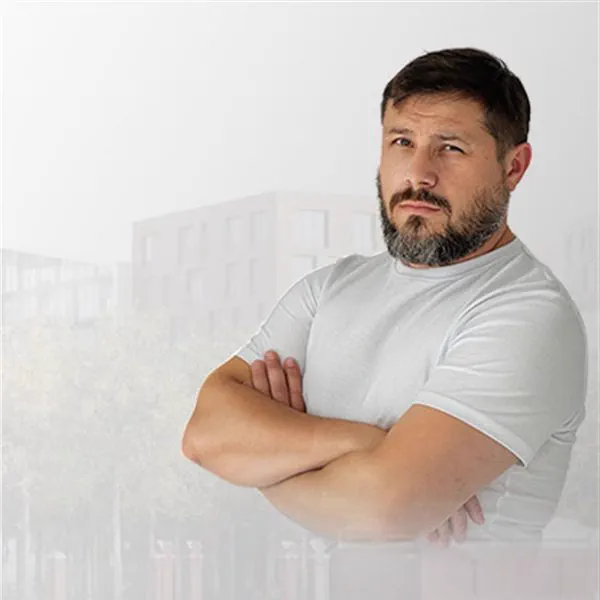
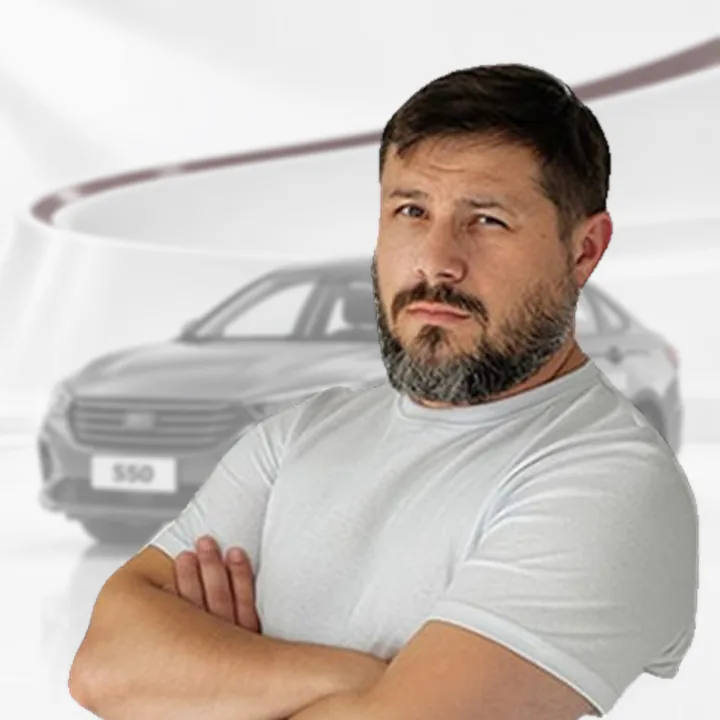
Инструкторы на фоне своих машин, страница «Восстановление навыков вождения»
- фото инструкторов: человек по грудь на фоне своей учебной машины в студии «вираж» под дымкой 45%;
  у троих без фото вместо серого квадрата — их машина; сборка: tools/ins-photo.py
- новая страница /obuchenie/vosstanovlenie-navykov-vozhdeniya: 2 100 ₽ за занятие из 2 учебных часов,
  АКПП и МКПП, только учебная машина, город и автодром; ссылки из «Обучения», «Цен» и меню
- BRANDCORE: условия услуги; карта кокона: узел 6 сделан
- build.pl: art «late» — картинка первого экрана после H1, чтобы длинное слово в заголовке не рвалось
- README: локальный предпросмотр собирать вне OneDrive

diff --git a/src/partials/team-cards.html b/src/partials/team-cards.html
@@ -5,62 +5,62 @@
 </div>
 <div class="scroller" id="teamList">
   <article class="ins" data-f="akpp">
-    <div class="ph"><img src="/img/ins/ushakov.webp" alt="Инструктор Ушаков Евгений Евгеньевич" width="600" height="600" loading="lazy"><span class="pill red">Автомат</span></div>
+    <div class="ph"><img src="/img/ins/ushakov.webp" alt="Инструктор Ушаков Евгений Евгеньевич" width="720" height="720" loading="lazy"><span class="pill red">Автомат</span></div>
     <div class="ins-in"><span class="nm">Ушаков Евгений Евгеньевич</span>
       <dl><div><dt>Машина</dt><dd>Omoda C5</dd></div><div><dt>За рулём</dt><dd>16 лет</dd></div><div><dt>Обучает</dt><dd>6+ лет</dd></div></dl>
       <p class="quote">Спокойный характер, большой опыт работы на экзаменационном автомобиле.</p>
       <button class="btn btn-sm btn-black btn-block" type="button" data-signup="bA" data-topic="К инструктору: Ушаков Е. Е.">Записаться к инструктору</button></div>
   </article>
   <article class="ins" data-f="akpp">
-    <div class="ph"><img src="/img/ins/kovalenok.webp" alt="Инструктор Ковалёнок Александр Владимирович" width="600" height="600" loading="lazy"><span class="pill red">Автомат</span></div>
+    <div class="ph"><img src="/img/ins/kovalenok.webp" alt="Инструктор Ковалёнок Александр Владимирович" width="720" height="720" loading="lazy"><span class="pill red">Автомат</span></div>
     <div class="ins-in"><span class="nm">Ковалёнок Александр Владимирович</span>
       <dl><div><dt>Машина</dt><dd>VW Polo</dd></div><div><dt>За рулём</dt><dd>34 года</dd></div><div><dt>Обучает</dt><dd>15 лет</dd></div></dl>
       <p class="quote">Большой опыт работы, в том числе на экзаменационном автомобиле.</p>
       <button class="btn btn-sm btn-black btn-block" type="button" data-signup="bA" data-topic="К инструктору: Ковалёнок А. В.">Записаться к инструктору</button></div>
   </article>
   <article class="ins" data-f="akpp">
-    <div class="ph"><img src="/img/ins/komissarov.webp" alt="Инструктор Комиссаров Денис Валентинович" width="600" height="600" loading="lazy"><span class="pill red">Автомат</span></div>
+    <div class="ph"><img src="/img/ins/komissarov.webp" alt="Инструктор Комиссаров Денис Валентинович" width="720" height="720" loading="lazy"><span class="pill red">Автомат</span></div>
     <div class="ins-in"><span class="nm">Комиссаров Денис Валентинович</span>
       <dl><div><dt>Машина</dt><dd>Belgee S50</dd></div><div><dt>За рулём</dt><dd>12 лет</dd></div><div><dt>Обучает</dt><dd>3+ лет</dd></div></dl>
       <p class="quote">Курсанты хвалят за терпение и дружелюбную атмосферу на занятиях.</p>
       <button class="btn btn-sm btn-black btn-block" type="button" data-signup="bA" data-topic="К инструктору: Комиссаров Д. В.">Записаться к инструктору</button></div>
   </article>
   <article class="ins" data-f="akpp">
-    <div class="ph ph-none"><span class="ini" aria-hidden="true">НЮ</span><span class="pill red">Автомат</span></div>
+    <div class="ph ph-car"><img src="/img/ins/yukalchuk.webp" alt="Учебная машина инструктора — Chery Tiggo 4 Pro" width="720" height="720" loading="lazy"><span class="ini" aria-hidden="true">НЮ</span><span class="pill red">Автомат</span></div>
     <div class="ins-in"><span class="nm">Юкальчук Никита Владимирович</span>
       <dl><div><dt>Машина</dt><dd>Chery Tiggo 4 Pro</dd></div><div><dt>За рулём</dt><dd>10 лет</dd></div><div><dt>Обучает</dt><dd>3+ лет</dd></div></dl>
       <p class="quote">Курсанты хвалят за терпение и спокойный грамотный подход.</p>
       <button class="btn btn-sm btn-black btn-block" type="button" data-signup="bA" data-topic="К инструктору: Юкальчук Н. В.">Записаться к инструктору</button></div>
   </article>
   <article class="ins" data-f="akpp">
-    <div class="ph ph-none"><span class="ini" aria-hidden="true">ВС</span><span class="pill red">Автомат</span></div>
+    <div class="ph ph-car"><img src="/img/ins/sofrin.webp" alt="Учебная машина инструктора — Jetour Dashing" width="720" height="720" loading="lazy"><span class="ini" aria-hidden="true">ВС</span><span class="pill red">Автомат</span></div>
     <div class="ins-in"><span class="nm">Софрин Владислав Игоревич</span>
       <dl><div><dt>Машина</dt><dd>Jetour Dashing</dd></div><div><dt>За рулём</dt><dd>10 лет</dd></div><div><dt>Обучает</dt><dd>3+ лет</dd></div></dl>
       <button class="btn btn-sm btn-black btn-block" type="button" data-signup="bA" data-topic="К инструктору: Софрин В. И.">Записаться к инструктору</button></div>
   </article>
   <article class="ins" data-f="mkpp">
-    <div class="ph"><img src="/img/ins/volnykh.webp" alt="Инструктор Вольных Павел Юрьевич" width="600" height="600" loading="lazy"><span class="pill red">Механика</span></div>
+    <div class="ph"><img src="/img/ins/volnykh.webp" alt="Инструктор Вольных Павел Юрьевич" width="720" height="720" loading="lazy"><span class="pill red">Механика</span></div>
     <div class="ins-in"><span class="nm">Вольных Павел Юрьевич</span>
       <dl><div><dt>Машина</dt><dd>Kia Rio</dd></div><div><dt>За рулём</dt><dd>25 лет</dd></div><div><dt>Обучает</dt><dd>14 лет</dd></div></dl>
       <p class="quote">Экзаменатор на внутреннем экзамене автошколы.</p>
       <button class="btn btn-sm btn-black btn-block" type="button" data-signup="bM" data-topic="К инструктору: Вольных П. Ю.">Записаться к инструктору</button></div>
   </article>
   <article class="ins" data-f="mkpp">
-    <div class="ph"><img src="/img/ins/novoselov.webp" alt="Инструктор Новоселов Евгений Сергеевич" width="600" height="600" loading="lazy"><span class="pill red">Механика</span></div>
+    <div class="ph"><img src="/img/ins/novoselov.webp" alt="Инструктор Новоселов Евгений Сергеевич" width="720" height="720" loading="lazy"><span class="pill red">Механика</span></div>
     <div class="ins-in"><span class="nm">Новоселов Евгений Сергеевич</span>
       <dl><div><dt>Машина</dt><dd>Lada Granta</dd></div><div><dt>За рулём</dt><dd>23 года</dd></div><div><dt>Обучает</dt><dd>12+ лет</dd></div></dl>
       <p class="quote">Спокойный, рассудительный инструктор.</p>
       <button class="btn btn-sm btn-black btn-block" type="button" data-signup="bM" data-topic="К инструктору: Новоселов Е. С.">Записаться к инструктору</button></div>
   </article>
   <article class="ins" data-f="mkpp">
-    <div class="ph"><img src="/img/ins/volodin.webp" alt="Инструктор Володин Сергей Николаевич" width="600" height="600" loading="lazy"><span class="pill red">Механика</span></div>
+    <div class="ph"><img src="/img/ins/volodin.webp" alt="Инструктор Володин Сергей Николаевич" width="720" height="720" loading="lazy"><span class="pill red">Механика</span></div>
     <div class="ins-in"><span class="nm">Володин Сергей Николаевич</span>
       <dl><div><dt>Машина</dt><dd>Lada Granta</dd></div><div><dt>За рулём</dt><dd>17 лет</dd></div><div><dt>Обучает</dt><dd>3+ лет</dd></div></dl>
       <p class="quote">Занимается единоборствами, судья 2 категории.</p>
       <button class="btn btn-sm btn-black btn-block" type="button" data-signup="bM" data-topic="К инструктору: Володин С. Н.">Записаться к инструктору</button></div>
   </article>
   <article class="ins" data-f="mkpp">
-    <div class="ph ph-none"><span class="ini" aria-hidden="true">ДС</span><span class="pill red">Механика</span></div>
+    <div class="ph ph-car"><img src="/img/ins/solovyev.webp" alt="Учебная машина инструктора — Nissan Note" width="720" height="720" loading="lazy"><span class="ini" aria-hidden="true">ДС</span><span class="pill red">Механика</span></div>
     <div class="ins-in"><span class="nm">Соловьев Денис Юрьевич</span>
       <dl><div><dt>Машина</dt><dd>Nissan Note</dd></div><div><dt>За рулём</dt><dd>23 года</dd></div><div><dt>Обучает</dt><dd>3+ лет</dd></div></dl>
       <button class="btn btn-sm btn-black btn-block" type="button" data-signup="bM" data-topic="К инструктору: Соловьев Д. Ю.">Записаться к инструктору</button></div>

diff --git a/src/pages/obuchenie/vosstanovlenie-navykov-vozhdeniya.html b/src/pages/obuchenie/vosstanovlenie-navykov-vozhdeniya.html
@@ -1,0 +1,87 @@
+<!--meta
+title: Восстановление навыков вождения в Томске | Авто-Вираж
+description: Занятия с инструктором для тех, у кого уже есть права: 2 100 ₽ за занятие из 2 учебных часов. Автомат или механика, город и автодром.
+art: art-instruktory | Руль и солнцезащитные очки | late
+-->
+<!--head--><script type="application/ld+json">{"@context":"https://schema.org","@type":"Service","name":"Восстановление навыков вождения","serviceType":"Занятия по вождению с инструктором для водителей с правами","provider":{"@id":"https://virazh-tomsk.ru/#org"},"areaServed":{"@type":"City","name":"Томск"},"offers":{"@type":"Offer","price":"2100","priceCurrency":"RUB","description":"Одно занятие — 2 учебных часа"}}</script><!--/head-->
+<section class="page-hero">
+  <div class="wrap">
+    <nav class="crumbs" aria-label="Навигация"><a href="/">Главная</a><span>/</span><a href="/obuchenie">Обучение</a><span>/</span><span>Восстановление навыков</span></nav>
+    <h1 class="it h1">Восстановление <span class="acc">навыков вождения</span></h1>
+    <p class="page-lead">Занятия с инструктором для тех, у кого уже есть права, но нет уверенности за рулём: после долгого перерыва, перед покупкой первой машины или перед поездками в незнакомом городском потоке. Одно занятие длится 2 учебных часа и стоит 2 100 ₽. Ездите на учебной машине школы с дублирующими педалями, на автомате или механике, по городу или на автодроме. Количество занятий выбираете сами, можно записаться на одно.</p>
+    <div class="hero-cta"><button class="btn btn-red" type="button" data-signup data-topic="Восстановление навыков вождения">Записаться на занятие</button><a class="btn" href="tel:+73822345252">+7 (3822) 34-52-52</a></div>
+  </div>
+</section>
+
+<section class="sec sec-tight">
+  <div class="wrap two">
+    <div class="prose">
+      <h2>Условия занятий</h2>
+      <div class="tbl"><table class="sv-table kv2">
+        <caption class="sr">Условия занятий по восстановлению навыков вождения</caption>
+        <tbody>
+          <tr><th scope="row">Стоимость</th><td>2 100 ₽ за занятие</td></tr>
+          <tr><th scope="row">Длительность</th><td>2 учебных часа</td></tr>
+          <tr><th scope="row">Коробка передач</th><td>Автомат или механика, на выбор</td></tr>
+          <tr><th scope="row">Машина</th><td>Учебная машина автошколы с дублирующими педалями</td></tr>
+          <tr><th scope="row">Где</th><td>По городу или на автодроме в пос. Хромовка</td></tr>
+          <tr><th scope="row">Сколько занятий</th><td>Любое количество, можно одно</td></tr>
+        </tbody>
+      </table></div>
+    </div>
+    <div class="prose">
+      <h2>Что отработать на занятии</h2>
+      <p>Задачу занятия ставите вы, инструктор подстраивает программу под неё. На автодроме удобно заново освоить парковку и развороты, а в городе — поездки в потоке, перестроения и сложные перекрёстки.</p>
+      <p>Если давно не садились за руль, удобнее начать с автодрома: там нет потока машин, а в город выехать, когда почувствуете себя увереннее.</p>
+      <p>Машины, на которых проходят занятия, и их инструкторы — на страницах <a href="/avtopark">«Автопарк»</a> и <a href="/instruktory">«Инструкторы»</a>.</p>
+    </div>
+  </div>
+</section>
+
+<section class="sec grey">
+  <div class="wrap prose prose-narrow">
+    <h2 class="it h2">Кому подходят <span class="acc">занятия</span></h2>
+    <ul class="checks plain">
+      <li><span><b>Права есть, но давно не водили.</b> Инструктор страхует дублирующими педалями, пока навык возвращается, и можно не бояться ошибиться в первые поездки.</span></li>
+      <li><span><b>Скоро своя машина.</b> Можно потренироваться на машине с той же коробкой передач, что и у будущей, до того как ехать самостоятельно.</span></li>
+      <li><span><b>Неуверенно в конкретных ситуациях.</b> Парковка, узкие дворы, многополосные перекрёстки — занятие можно посвятить только им.</span></li>
+    </ul>
+  </div>
+</section>
+
+<section class="sec">
+  <div class="wrap prose prose-narrow">
+    <h2 class="it h2">Когда эти занятия <span class="acc">не подойдут</span></h2>
+    <ul class="checks plain">
+      <li><span><b>Прав ещё нет.</b> Без водительского удостоверения нужен полный курс: <a href="/obuchenie/kategoriya-b-akpp">категория B на автомате</a> или <a href="/obuchenie/kategoriya-b-mkpp">на механике</a> с теорией и экзаменами.</span></li>
+      <li><span><b>Хотите заниматься на своей машине.</b> Занятия проходят только на учебных машинах автошколы с дублирующими педалями.</span></li>
+      <li><span><b>Нужно снять отметку «AT» в правах.</b> Восстановление навыков не меняет права: чтобы водить механику, нужно дополнительное обучение и практический экзамен в ГИБДД, подробнее — на <a href="/obuchenie/kategoriya-b-akpp">странице АКПП</a>.</span></li>
+    </ul>
+  </div>
+</section>
+
+<section class="sec grey">
+  <div class="wrap prose prose-narrow">
+    <h2 class="it h2">Как <span class="acc">записаться</span></h2>
+    <ol>
+      <li><b>Позвоните или оставьте заявку</b> — администратор перезвонит в рабочее время.</li>
+      <li><b>Выберите коробку передач и место</b>: автодром в Хромовке или город.</li>
+      <li><b>Договоритесь о времени</b> первого занятия, а после него решите, нужны ли ещё.</li>
+    </ol>
+    <p>Офисы и режим работы — на странице <a href="/kontakty">«Контакты»</a>.</p>
+  </div>
+</section>
+
+<section class="sec" id="faq">
+  <div class="wrap faq-grid">
+    <div class="head"><h2 class="it h2">Частые <span class="acc">вопросы</span></h2></div>
+    <div class="faq">
+      <details><summary>Сколько стоит занятие по восстановлению навыков вождения?</summary><p>2 100 ₽ за одно занятие длительностью 2 учебных часа. Платите за каждое занятие, без курса и пакетов.</p></details>
+      <details><summary>Сколько занятий нужно взять?</summary><p>Столько, сколько нужно вам: можно записаться на одно занятие и решить после него. Обязательного минимума нет.</p></details>
+      <details><summary>Можно ли заниматься на своей машине?</summary><p>Нет, занятия проходят только на учебных машинах автошколы с дублирующими педалями — на автомате или механике, на выбор.</p></details>
+      <details><summary>Где проходят занятия?</summary><p>По городу или на автодроме автошколы в пос. Хромовка. Место выбираете при записи, исходя из того, что хотите отработать.</p></details>
+    </div>
+  </div>
+</section>
+
+<!--#include final-form-->

diff --git a/src/pages/obuchenie.html b/src/pages/obuchenie.html
@@ -24,6 +24,7 @@ art: art-obuchenie | Учебник ПДД, ключ от машины и дор
         <tr><th scope="row"><a href="/obuchenie/kategoriya-b-mkpp">B на механике</a></th><td>Нужна механика: своя, рабочая или прокатная машина</td><td>58 часов, 2,5–3 месяца</td><td>B без ограничений по коробке</td><td>68 000 ₽</td></tr>
         <tr><th scope="row"><a href="/obuchenie/kategoriya-a-motocikl">A, мотоцикл</a></th><td>Мотоцикл; с правами B учиться быстрее</td><td>18 часов, 1 месяц с правами B или 2,5 без них, вождение в тёплый сезон</td><td>A (есть и A1 — до 125 см³)</td><td>25 000 ₽</td></tr>
         <tr><th scope="row"><a href="/obuchenie/gostekhnadzor-kategoriya-ai">AI, квадроцикл и снегоход</a></th><td>Владельцам квадроциклов и снегоходов</td><td>программу и срок назовём по телефону</td><td>Удостоверение тракториста-машиниста AI</td><td>15 000 ₽</td></tr>
+        <tr><th scope="row"><a href="/obuchenie/vosstanovlenie-navykov-vozhdeniya">Восстановление навыков вождения</a></th><td>Права уже есть, но нет уверенности за рулём</td><td>Занятие — 2 учебных часа, количество любое</td><td>Права не меняются</td><td>2 100 ₽ за занятие</td></tr>
       </tbody>
     </table></div>
     <p class="note-sm">Для категории B отдельно платится экзамен в ГИБДД — 5 000 ₽. У всех — госпошлина за права 4 000 ₽ и медицинская справка. Подробно — на странице <a href="/tseny/tseny-tomsk">цен</a>.</p>
@@ -37,6 +38,7 @@ art: art-obuchenie | Учебник ПДД, ключ от машины и дор
       <a class="cardlink" href="/obuchenie/kategoriya-b-akpp"><img class="card-ico" src="/img/icons/cat-b-auto.webp" alt="" width="320" height="320" loading="lazy"><h3 class="it">Категория B на автомате</h3><span class="price num">66 000 ₽</span><p>56 часов вождения на Omoda C5, Chery Tiggo 4 Pro, Jetour, Belgee или VW Polo.</p><span class="go">Подробнее <svg width="16" height="16"><use href="#i-arrow"/></svg></span></a>
       <a class="cardlink" href="/obuchenie/kategoriya-b-mkpp"><img class="card-ico" src="/img/icons/cat-b-manual.webp" alt="" width="320" height="320" loading="lazy"><h3 class="it">Категория B на механике</h3><span class="price num">68 000 ₽</span><p>58 часов вождения на Kia Rio, Hyundai Solaris, Lada Granta или Nissan Note.</p><span class="go">Подробнее <svg width="16" height="16"><use href="#i-arrow"/></svg></span></a>
       <a class="cardlink" href="/obuchenie/kategoriya-a-motocikl"><img class="card-ico" src="/img/icons/cat-a-moto.webp" alt="" width="320" height="320" loading="lazy"><h3 class="it">Категория A и A1, мотоцикл</h3><span class="price num">25 000 ₽</span><p>18 часов вождения на Bajaj Boxer, экзамены в цене. Вождение — в тёплый сезон.</p><span class="go">Подробнее <svg width="16" height="16"><use href="#i-arrow"/></svg></span></a>
+      <a class="cardlink" href="/obuchenie/vosstanovlenie-navykov-vozhdeniya"><img class="card-ico" src="/img/icons/step-driving.webp" alt="" width="320" height="320" loading="lazy"><h3 class="it">Восстановление навыков вождения</h3><span class="price num">2 100 ₽</span><p>Для тех, у кого уже есть права: занятия с инструктором на автомате или механике, по городу или на автодроме.</p><span class="go">Подробнее <svg width="16" height="16"><use href="#i-arrow"/></svg></span></a>
       <a class="cardlink" href="/obuchenie/prava-s-16-let"><img class="card-ico" src="/img/icons/perk-student.webp" alt="" width="320" height="320" loading="lazy"><h3 class="it">С 16 лет</h3><p>Учёба на B с 16 лет, экзамены с 17, права в 18. A1 — уже в 16.</p><span class="go">Подробнее <svg width="16" height="16"><use href="#i-arrow"/></svg></span></a>
       <a class="cardlink" href="/obuchenie/uchis-online"><img class="card-ico" src="/img/icons/cat-online.webp" alt="" width="320" height="320" loading="lazy"><h3 class="it">Онлайн-обучение</h3><p>Теория ПДД в личном кабинете: видеоуроки с 3D-графикой, билеты и тренировка экзамена 24/7.</p><span class="go">Подробнее <svg width="16" height="16"><use href="#i-arrow"/></svg></span></a>
       <a class="cardlink" href="/obuchenie/gostekhnadzor-kategoriya-ai"><img class="card-ico" src="/img/icons/cat-ai.webp" alt="" width="320" height="320" loading="lazy"><h3 class="it">Квадроцикл и снегоход (AI)</h3><span class="price num">15 000 ₽</span><p>Удостоверение тракториста-машиниста категории AI — внедорожные мототранспортные средства.</p><span class="go">Подробнее <svg width="16" height="16"><use href="#i-arrow"/></svg></span></a>

diff --git a/src/pages/tseny/tseny-tomsk.html b/src/pages/tseny/tseny-tomsk.html
@@ -29,6 +29,7 @@ priority: 0.9
         <tr><th scope="row"><a href="/obuchenie/kategoriya-b-mkpp">B на механике (МКПП)</a></th><td>Теория, 58 часов вождения (29 занятий), внутренний экзамен</td><td>Экзамен в ГИБДД 5 000 ₽</td><td>68 000 ₽</td></tr>
         <tr><th scope="row"><a href="/obuchenie/kategoriya-a-motocikl">A, мотоцикл</a></th><td>18 часов вождения на Bajaj Boxer, внутренний экзамен и экзамен в ГИБДД</td><td>—</td><td>25 000 ₽</td></tr>
         <tr><th scope="row"><a href="/obuchenie/gostekhnadzor-kategoriya-ai">AI, квадроцикл и снегоход</a></th><td>Обучение по программе Гостехнадзора</td><td>Программу и экзамен назовём по телефону</td><td>15 000 ₽</td></tr>
+        <tr><th scope="row"><a href="/obuchenie/vosstanovlenie-navykov-vozhdeniya">Восстановление навыков вождения</a></th><td>Занятие с инструктором — 2 учебных часа на учебной машине, автомат или механика</td><td>—</td><td>2 100 ₽ за занятие</td></tr>
       </tbody>
     </table></div>
     <p class="note-sm">У всех категорий отдельно от автошколы: госпошлина за выдачу прав — 4 000 ₽ (платится государству) и медицинская справка (стоимость зависит от клиники). Налоговый вычет возвращает 13% стоимости курса: с 66 000 ₽ — до 8 580 ₽, <a href="/blog/nalogovyj-vychet-za-avtoshkolu">как его получить</a>.</p>

diff --git a/assets/css/pages.css b/assets/css/pages.css
@@ -168,6 +168,8 @@ html.a11y-fs-2 .scroller,html.a11y-fs-3 .scroller,html.a11y-fs-2 .chips,html.a11
 .h1,.h2,h1,h2{hyphens:manual;-webkit-hyphens:manual;overflow-wrap:break-word}
 .ins .ph-none{display:grid;place-items:center;background:linear-gradient(135deg,#E7E7E7,#D9D9D9)}
 .ins .ph-none .ini{font:900 italic 64px/1 var(--font);color:#BDBDBD;letter-spacing:.02em}
+/* нет фото инструктора: его учебная машина в той же студии, инициалы на месте головы */
+.ins .ph-car .ini{position:absolute;left:0;right:0;top:9%;text-align:center;font:900 italic 54px/1 var(--font);color:rgba(56,56,56,.2);letter-spacing:.02em}
 .rev-list{display:grid;gap:12px}
 @media (min-width:900px){.rev-list{grid-template-columns:repeat(2,minmax(0,1fr))}}
 .rev-list .rev{width:auto;max-width:none}

diff --git a/src/partials/overlays.html b/src/partials/overlays.html
@@ -9,6 +9,7 @@
   <a class="m sub" href="/obuchenie/kategoriya-b-akpp">Категория B на автомате</a>
   <a class="m sub" href="/obuchenie/kategoriya-b-mkpp">Категория B на механике</a>
   <a class="m sub" href="/obuchenie/kategoriya-a-motocikl">Категория A, мотоцикл</a>
+  <a class="m sub" href="/obuchenie/vosstanovlenie-navykov-vozhdeniya">Восстановление навыков</a>
   <a class="m sub" href="/obuchenie/uchis-online">Учись онлайн</a>
   <a class="m" href="/tseny/tseny-tomsk">Цены</a>
   <a class="m" href="/oplata">Оплата и скидки</a>

diff --git a/tools/ins-photo.py b/tools/ins-photo.py
@@ -1,0 +1,82 @@
+# Фото инструкторов для карточек: человек по грудь на фоне своей учебной машины в студии «вираж», под дымкой 45%.
+#   py -3 tools\ins-photo.py            — пересобрать все фото в img/ins
+# Исходники: design/img-original/ins/<имя>.jpg (фото 600×600), design/ins-cut/<имя>.png (альфа-маска, rembg isnet-general-use),
+# design/ins-scene/<машина>-studio.jpg (сцена вокруг машины из img/car-*.webp, сгенерирована через Codex).
+# Новый инструктор: вырезать фон rembg → добавить в PEOPLE; нет фото — в NO_PHOTO (в карточке будет его машина).
+import os
+import numpy as np
+from PIL import Image, ImageFilter
+
+ROOT = os.path.dirname(os.path.dirname(os.path.abspath(__file__)))
+ORIG = os.path.join(ROOT, 'design', 'img-original', 'ins')
+CUT = os.path.join(ROOT, 'design', 'ins-cut')
+SCENES = os.path.join(ROOT, 'design', 'ins-scene')
+OUT = os.path.join(ROOT, 'img', 'ins')
+
+SIZE = 720       # сторона итогового квадрата
+SRC = 600        # исходники 600×600
+ZOOM = 1.3       # кадр по грудь: выцветший низ исходников уходит за край
+TOP = 0.09       # отступ над макушкой, доля кадра
+HAZE = 0.45      # плотность однотонной дымки над сценой
+
+PEOPLE = {'ushakov': 'omoda', 'kovalenok': 'vw-polo', 'komissarov': 'belgee', 'volnykh': 'kia-rio',
+          'novoselov': 'granta', 'volodin': 'granta'}
+NO_PHOTO = {'yukalchuk': 'chery-tiggo-4', 'sofrin': 'jetour', 'solovyev': 'nissan-note'}
+
+
+def box(a, r, axis):
+    p = np.pad(a, [(r + 1, r) if k == axis else (0, 0) for k in range(2)], mode='edge')
+    c = np.cumsum(p, axis=axis)
+    hi = np.take(c, range(2 * r + 1, c.shape[axis]), axis=axis)
+    lo = np.take(c, range(0, c.shape[axis] - 2 * r - 1), axis=axis)
+    return (hi - lo) / (2 * r + 1)
+
+
+def blur(a, r):
+    """Почти гауссово размытие float-массива: три прохода прямоугольного фильтра."""
+    k = max(1, int(round(r * 0.8)))
+    for _ in range(3):
+        a = box(box(a, k, 0), k, 1)
+    return a
+
+
+def person(name):
+    """Человек без ореола: маска сужена на ~1 px, цвет края очищен от старого белого фона; кадр по грудь."""
+    C = np.asarray(Image.open(os.path.join(ORIG, name + '.jpg')).convert('RGB'), float) / 255
+    a = np.asarray(Image.open(os.path.join(CUT, name + '.png')).split()[3], float) / 255
+    m = Image.fromarray((a * 255).astype(np.uint8)).filter(ImageFilter.MinFilter(3)).filter(ImageFilter.GaussianBlur(0.7))
+    a = np.asarray(m, float) / 255
+    w = (1 - a) ** 2
+    B = np.stack([blur(C[..., k] * w, 12) for k in range(3)], -1) / np.maximum(blur(w, 12), 1e-4)[..., None]
+    F = (C - (1 - a[..., None]) * B) / np.maximum(a[..., None], 0.05)
+    F = np.where(a[..., None] > 0.97, C, np.clip(F, 0, 1))
+    # квадрат L×L: макушка на TOP от верха, по горизонтали по центру головы
+    L = int(SRC / ZOOM)
+    top = np.where((a > 0.5).sum(1) > 6)[0][0]
+    cx = int(np.mean(np.where(a[top:top + 60] > 0.5)[1]))
+    x0, y0 = int(np.clip(cx - L / 2, 0, SRC - L)), max(0, top - int(TOP * L))
+    crop = lambda arr: np.asarray(Image.fromarray((arr * 255).astype(np.uint8)).crop((x0, y0, x0 + L, y0 + L)).resize((SIZE, SIZE), Image.LANCZOS), float) / 255
+    return crop(F), crop(a)
+
+
+def scene(car):
+    """Сцена с машиной: лёгкое размытие, как у портретного объектива, обесцвечивание и дымка плотнее книзу."""
+    plate = Image.open(os.path.join(SCENES, car + '-studio.jpg')).convert('RGB').resize((SIZE, SIZE), Image.LANCZOS).filter(ImageFilter.GaussianBlur(2.5))
+    bg = np.asarray(plate, float) / 255
+    lum = (bg * [0.299, 0.587, 0.114]).sum(-1, keepdims=True)
+    bg = bg * 0.3 + lum * 0.7
+    y = np.arange(SIZE)[:, None, None] / SIZE
+    k = np.clip(HAZE + (y - 0.45) * 0.35, HAZE * 0.85, 0.97)
+    return bg * (1 - k) + np.array([0xF2, 0xF2, 0xF2]) / 255 * k
+
+
+def save(img, name):
+    Image.fromarray((img * 255).round().clip(0, 255).astype(np.uint8)).save(os.path.join(OUT, name + '.webp'), 'WEBP', quality=82, method=6)
+    print(name)
+
+
+for name, car in PEOPLE.items():
+    F, a = person(name)
+    save(F * a[..., None] + scene(car) * (1 - a[..., None]), name)
+for name, car in NO_PHOTO.items():
+    save(scene(car), name)

diff --git a/seo/cocoon-map.md b/seo/cocoon-map.md
@@ -56,7 +56,7 @@
 | 3 | Налоговый вычет за автошколу: пошагово — **сделано: `/blog/nalogovyj-vychet-za-avtoshkolu`** | Вернуть 13% через Госуслуги или 3-НДФЛ | Инструкция с шагами и документами, ищут отдельно от выбора школы | `/oplata` → блог | Какие документы выдаёт школа и в какой срок | предложить |
 | 4 | Пересдача экзамена в ГИБДД — **сделано: `/blog/peresdacha-ekzamena-v-gibdd`** | Не сдал: когда можно снова, сколько стоит, что делать | Отдельная ситуация с правилами (7 дней, 6–9 месяцев по приказу МВД № 80) | `/ekzameny` → блог | Стоимость доп. занятий и повторного экзамена через школу | предложить |
 | 5 | Медицинская справка для прав в Томске | Какая справка нужна, где сделать, сколько действует | Самостоятельный вопрос до записи | блог | Есть ли партнёрские медцентры | гипотеза, низкий приоритет |
-| 6 | Уроки вождения для тех, у кого уже есть права | Восстановить навык после перерыва | Другая аудитория и другой продукт | `/obuchenie` | **Есть ли такая услуга** — без неё страницу не делать | блокер |
+| 6 | Уроки вождения для тех, у кого уже есть права — **сделано: `/obuchenie/vosstanovlenie-navykov-vozhdeniya`** | Восстановить навык после перерыва | Другая аудитория и другой продукт | `/obuchenie` | Услуга есть: 2 100 ₽ за занятие из 2 учебных часов (подтверждено 28.10.2026). Уточнить: коробка, своя машина, где проходят занятия | делать |
 | 7 | Автомат или механика | Сравнение X vs Y | — | — | — | **не делать**: уже закрыто таблицей на `/obuchenie` и блоками на страницах B, отдельная страница создала бы дубль |
 | 8 | Страницы под районы Томска | «Автошкола на Киевской / в Октябрьском районе» | — | — | — | **не делать**: тиражирование под районы — doorway; адреса уже на `/kontakty` и главной |
 

diff --git a/seo/BRANDCORE.md b/seo/BRANDCORE.md
@@ -43,7 +43,9 @@
 | B МКПП | 68 000 ₽ | сайт |
 | A | 25 000 ₽ | подтверждено 28.10.2026; состав цены (теория, экзамены) — сверить, старая разбивка 16 000 + 3 000 + 4 000 была на 23 000 ₽ |
 | AI | 15 000 ₽ | сайт |
-| Порядок оплаты B | старт 5 000 ₽ (теория), дальше 2 000 ₽ за занятие по мере езды | сайт |
+| Восстановление навыков вождения | 2 100 ₽ за занятие, занятие — 2 учебных часа (для тех, у кого уже есть права) | подтверждено 28.10.2026 (владелец сайта) |
+| Восстановление навыков: условия | АКПП и МКПП по выбору; только на учебной машине школы (своя — нельзя); город и автодром; любое количество занятий, хоть одно | подтверждено 28.10.2026 (владелец сайта) |
+| Порядок оплаты B | первый взнос 5 000 ₽ (теория), далее 2 000 ₽ за каждое занятие по вождению | сайт; формулировка — замечание менеджера 28.10.2026 |
 | Не входит в цену B | экзамен в ГИБДД 5 000 ₽ (через школу), госпошлина за выдачу прав, медицинская справка | сайт |
 | Госпошлина за выдачу прав | 4 000 ₽ | закон: НК РФ ст. 333.33, ред. с 01.09.2025 |
 | Налоговый вычет | 13% от стоимости, с курса 66 000 ₽ — до 8 580 ₽ | закон: НК РФ ст. 219 |

diff --git a/README.md b/README.md
@@ -36,7 +36,13 @@ perl tools/build.pl
 perl tools/check.pl
 ```
 
-Готовый сайт — в `_site`. Предпросмотр для GitHub Pages собирается так (адреса с префиксом, всё закрыто от индексации):
+Готовый сайт — в `_site`. Если папка проекта лежит в OneDrive, собирайте локальный предпросмотр вне неё: OneDrive подменяет только что собранные файлы облачными копиями (свежие уходят в `*-<имя ПК>.*`), и в браузере видна старая версия. Локальный сервер (`.claude/launch.json`) отдаёт папку `C:\Users\anton\dev\virazh-site-build`:
+
+```bash
+perl tools/build.pl --out=C:/Users/anton/dev/virazh-site-build && perl tools/check.pl C:/Users/anton/dev/virazh-site-build
+```
+
+Предпросмотр для GitHub Pages собирается так (адреса с префиксом, всё закрыто от индексации):
 
 ```bash
 perl tools/build.pl --preview --base=/virazh-tomsk-site --out=_preview
